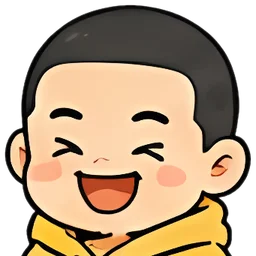
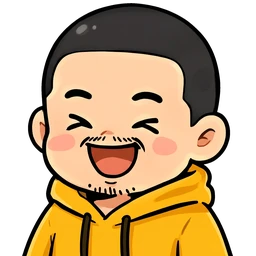
feat(ui): 吉祥物主題首頁減法、粗哥大頭貼統一成同一張臉
首頁（home_body_t2）：
- 拿掉「裝置近期資料」卡：12 個訊號標籤（p0–p2、ax–gz、pitch、roll、battery）是工程用原始資料，長輩看不懂；圖還在分析細節頁
- 鞋墊卡改白底（黃色留給按鈕）；還沒綁定時不畫空電量條，改顯示「點這裡綁定鞋墊」
- 今日任務的粗哥貼圖換成單純播放鍵；跌倒守護改用盾牌線條圖示
- 健檢卡的放大鏡粗哥只在還沒做過健檢時出現
- 跌倒守護標籤「安全」改「守護中」，有事件時顯示「N 件事件」（守護不能保證安全）
- 新字串加在 strings.csv 尾端：fall_guard_watching、device_tap_to_pair

粗哥素材：
- applaud、happy、avatars/av_01、av_02、av_04 重畫成標準臉（八字鬍＋下巴鬍渣、不戴眼鏡），尺寸與檔名不變
- 刪掉 23 張程式沒引用的素材：determined.webp、icons/ 下的 nav_*、set_*、an_*、dev_battery、dev_firmware、home_shield、home_switch、home_weather；pubspec 拿掉 determined

diff --git a/lib/shared/pages/theme_two/home_body_t2.dart b/lib/shared/pages/theme_two/home_body_t2.dart
@@ -15,9 +15,6 @@ import 'package:silversole/shared/providers/settings_provider.dart';
 import 'package:silversole/shared/providers/telemetry_process_providers/device_online_provider.dart';
 import 'package:silversole/shared/providers/telemetry_process_providers/live_telemetry_notifier.dart';
 import 'package:silversole/shared/providers/telemetry_process_providers/telemetry_facade_provider.dart';
-import 'package:silversole/core/theme/app_palette.dart';
-import 'package:silversole/shared/widgets/chart/chart_section.dart';
-import 'package:silversole/shared/widgets/chart/imu_chart_section.dart';
 import 'package:silversole/shared/widgets/foot_health_check_card.dart';
 import 'package:silversole/shared/widgets/theme_two/mascot_card.dart';
 
@@ -32,6 +29,9 @@ import 'package:silversole/shared/widgets/theme_two/mascot_card.dart';
 /// foot check shows the last real result or an empty state. The mockup's
 /// weather strip is intentionally absent too — there is no weather source and
 /// none is planned.
+///
+/// The raw IMU trace is not on this screen: twelve channel names mean nothing
+/// to a wearer. It stays one tap away on the analytics detail page.
 class HomeBodyT2 extends ConsumerWidget {
   const HomeBodyT2({super.key});
 
@@ -52,7 +52,6 @@ class HomeBodyT2 extends ConsumerWidget {
               _DeviceCard(device: device),
               const FootCheckCardT2(),
               const _FallGuardCard(),
-              const _RecentDataCard(),
             ],
           ),
         ),
@@ -131,7 +130,25 @@ class _DailyMissionCard extends StatelessWidget {
       child: Row(
         crossAxisAlignment: CrossAxisAlignment.center,
         children: [
-          Image.asset('assets/mascot-assets/icons/home_play.webp', height: 62),
+          // A plain play button, not a mascot sticker: the greeting above is
+          // this screen's one mascot.
+          Container(
+            width: 52,
+            height: 52,
+            decoration: BoxDecoration(
+              color: AppPaletteT2.gold,
+              shape: BoxShape.circle,
+              border: Border.all(
+                color: AppPaletteT2.ink,
+                width: AppPaletteT2.outlineWidth,
+              ),
+            ),
+            child: const Icon(
+              Icons.play_arrow_rounded,
+              size: 32,
+              color: AppPaletteT2.ink,
+            ),
+          ),
           const SizedBox(width: 10),
           Expanded(
             child: Column(
@@ -186,8 +203,9 @@ class _DeviceCard extends ConsumerWidget {
     );
     final name = device?.name ?? 'not_binding'.tr();
 
+    // Plain white, not gold: gold is the colour of the buttons, and this card
+    // is status, not the thing to press first.
     return MascotCard(
-      color: AppPaletteT2.gold,
       onTap: () => context.push('/my-devices'),
       child: Column(
         crossAxisAlignment: CrossAxisAlignment.start,
@@ -216,34 +234,41 @@ class _DeviceCard extends ConsumerWidget {
           ),
           const SizedBox(height: 4),
           Text(
-            online ? 'device_synced'.tr() : 'offline'.tr(),
+            device == null
+                ? 'device_tap_to_pair'.tr()
+                : online
+                ? 'device_synced'.tr()
+                : 'offline'.tr(),
             style: context.textTheme.bodyMedium?.copyWith(
               color: AppPaletteT2.ink,
             ),
           ),
-          const SizedBox(height: 14),
-          Row(
-            children: [
-              Expanded(
-                child: MascotProgressBar(
-                  value: battery.fraction,
-                  height: 20,
-                  fill: battery.isLive
-                      ? AppPaletteT2.safe
-                      : AppPaletteT2.inkFaint,
+          // An empty gray bar says nothing before a sole is paired.
+          if (device != null) ...[
+            const SizedBox(height: 14),
+            Row(
+              children: [
+                Expanded(
+                  child: MascotProgressBar(
+                    value: battery.fraction,
+                    height: 20,
+                    fill: battery.isLive
+                        ? AppPaletteT2.safe
+                        : AppPaletteT2.inkFaint,
+                  ),
                 ),
-              ),
-              const SizedBox(width: 12),
-              Text(
-                battery.label,
-                style: battery.isLive
-                    ? context.textTheme.headlineMedium
-                    : context.textTheme.headlineMedium?.copyWith(
-                        color: AppPaletteT2.inkMuted,
-                      ),
-              ),
-            ],
-          ),
+                const SizedBox(width: 12),
+                Text(
+                  battery.label,
+                  style: battery.isLive
+                      ? context.textTheme.headlineMedium
+                      : context.textTheme.headlineMedium?.copyWith(
+                          color: AppPaletteT2.inkMuted,
+                        ),
+                ),
+              ],
+            ),
+          ],
         ],
       ),
     );
@@ -297,7 +322,10 @@ class FootCheckCardT2 extends ConsumerWidget {
                   ],
                 ),
               ),
-              Image.asset('assets/mascot-assets/checking.webp', height: 86),
+              // The mascot invites a first check; once there is a result
+              // the result is the picture.
+              if (last == null)
+                Image.asset('assets/mascot-assets/checking.webp', height: 86),
             ],
           ),
           const SizedBox(height: 14),
@@ -341,11 +369,8 @@ class _FallGuardCardState extends ConsumerState<_FallGuardCard> {
     return MascotCard(
       child: Row(
         children: [
-          Image.asset(
-            'assets/mascot-assets/icons/home_shield.webp',
-            height: 54,
-          ),
-          const SizedBox(width: 10),
+          const Icon(Icons.shield_outlined, size: 32, color: AppPaletteT2.ink),
+          const SizedBox(width: 12),
           Expanded(
             child: Column(
               crossAxisAlignment: CrossAxisAlignment.start,
@@ -371,103 +396,13 @@ class _FallGuardCardState extends ConsumerState<_FallGuardCard> {
           MascotPill(
             color: safe ? AppPaletteT2.card : AppPaletteT2.danger,
             child: Text(
-              safe ? 'safe'.tr() : 'alert_severity'.tr(),
+              // "Watching", not "safe": the guard cannot promise safety.
+              safe
+                  ? 'fall_guard_watching'.tr()
+                  : 'fall_guard_events'.tr(args: ['$_eventCount']),
               style: context.textTheme.labelLarge?.copyWith(
                 color: safe ? AppPaletteT2.safe : AppPaletteT2.card,
               ),
-            ),
-          ),
-        ],
-      ),
-    );
-  }
-}
-
-// ── 6. Recent device data ─────────────────────────────────────────────────
-
-/// Live IMU trace + a legend, tapping through to the detail panel.
-///
-/// Real data — the mascot theme's counterpart to `RecentDataChartCard`. The
-/// line colors come from `AppPalette.chartSeries` in both themes: they encode
-/// which channel is which, so they are not restyled per theme.
-class _RecentDataCard extends StatelessWidget {
-  const _RecentDataCard();
-
-  @override
-  Widget build(BuildContext context) {
-    Color colorOf(int i) =>
-        AppPalette.chartSeries[i % AppPalette.chartSeries.length];
-
-    return MascotCard(
-      padding: const EdgeInsets.fromLTRB(14, 14, 14, 12),
-      onTap: () => context.push('/analytics-detail'),
-      child: Column(
-        crossAxisAlignment: CrossAxisAlignment.start,
-        children: [
-          Row(
-            children: [
-              Expanded(
-                child: Text(
-                  'device_recent_data'.tr(),
-                  style: context.textTheme.titleMedium,
-                ),
-              ),
-              Text('view'.tr(), style: context.textTheme.labelLarge),
-              const Icon(Icons.chevron_right, size: 20),
-            ],
-          ),
-          const SizedBox(height: 10),
-          ImuChartSection(type: ChardDisplayType.all),
-          const SizedBox(height: 10),
-          Wrap(
-            spacing: 6,
-            runSpacing: 6,
-            children: [
-              for (var i = 0; i < imuChannelLabels.length; i++)
-                _LegendChip(color: colorOf(i), label: imuChannelLabels[i]),
-            ],
-          ),
-        ],
-      ),
-    );
-  }
-}
-
-/// Small outlined swatch + channel name, this theme's answer to the classic
-/// card's Material chips.
-class _LegendChip extends StatelessWidget {
-  const _LegendChip({required this.color, required this.label});
-
-  final Color color;
-  final String label;
-
-  @override
-  Widget build(BuildContext context) {
-    return Container(
-      padding: const EdgeInsets.symmetric(horizontal: 8, vertical: 4),
-      decoration: BoxDecoration(
-        color: AppPaletteT2.card,
-        borderRadius: BorderRadius.circular(999),
-        border: Border.all(color: AppPaletteT2.ink, width: 1.5),
-      ),
-      child: Row(
-        mainAxisSize: MainAxisSize.min,
-        children: [
-          Container(
-            width: 9,
-            height: 9,
-            decoration: BoxDecoration(
-              color: color,
-              shape: BoxShape.circle,
-              border: Border.all(color: AppPaletteT2.ink, width: 1),
-            ),
-          ),
-          const SizedBox(width: 5),
-          Text(
-            label,
-            style: context.textTheme.bodyMedium?.copyWith(
-              fontSize: 12,
-              color: AppPaletteT2.ink,
             ),
           ),
         ],
